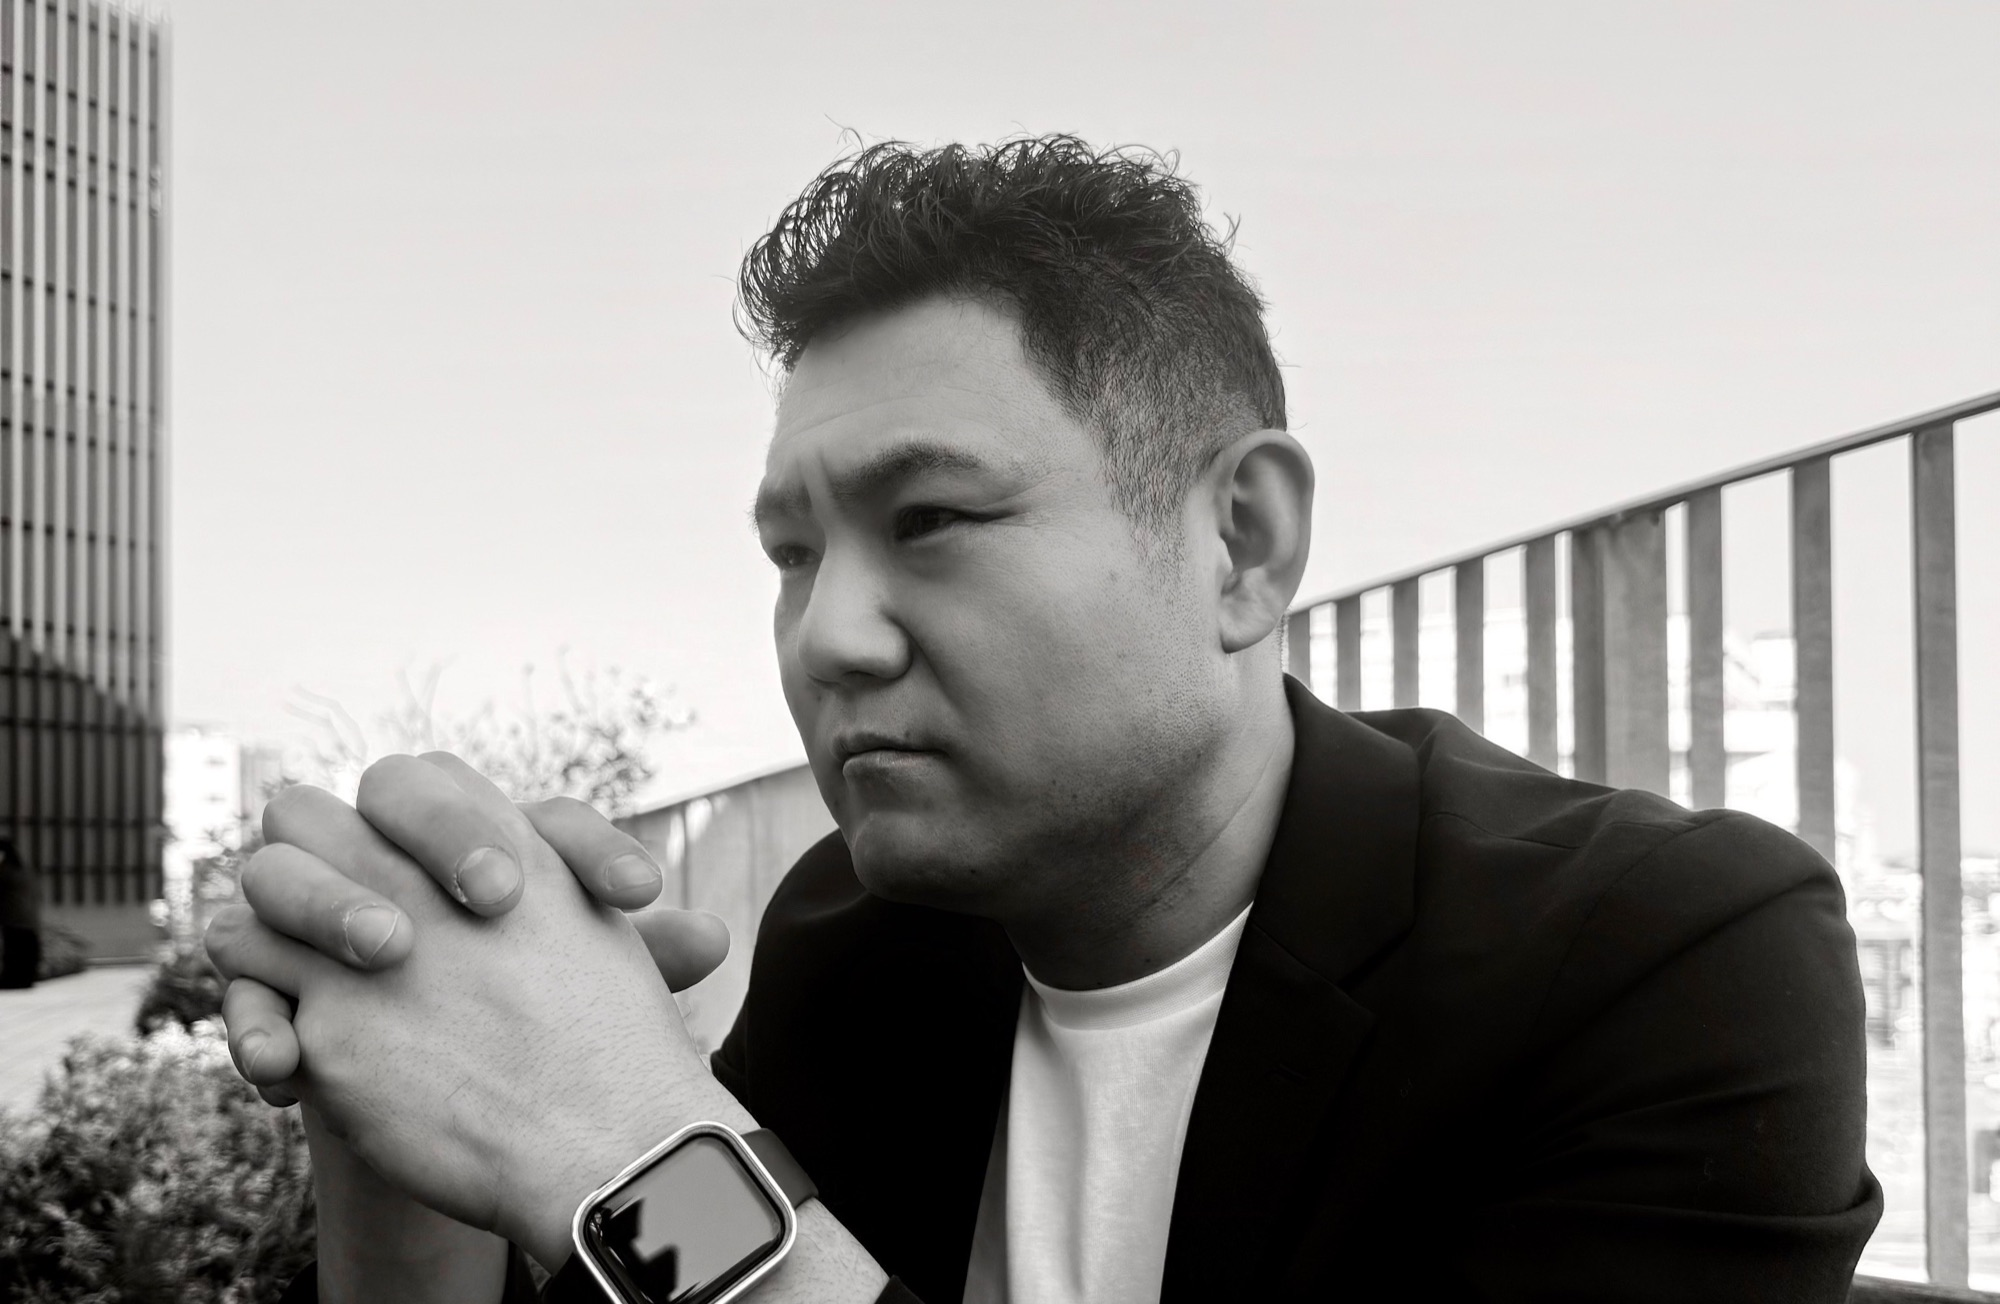
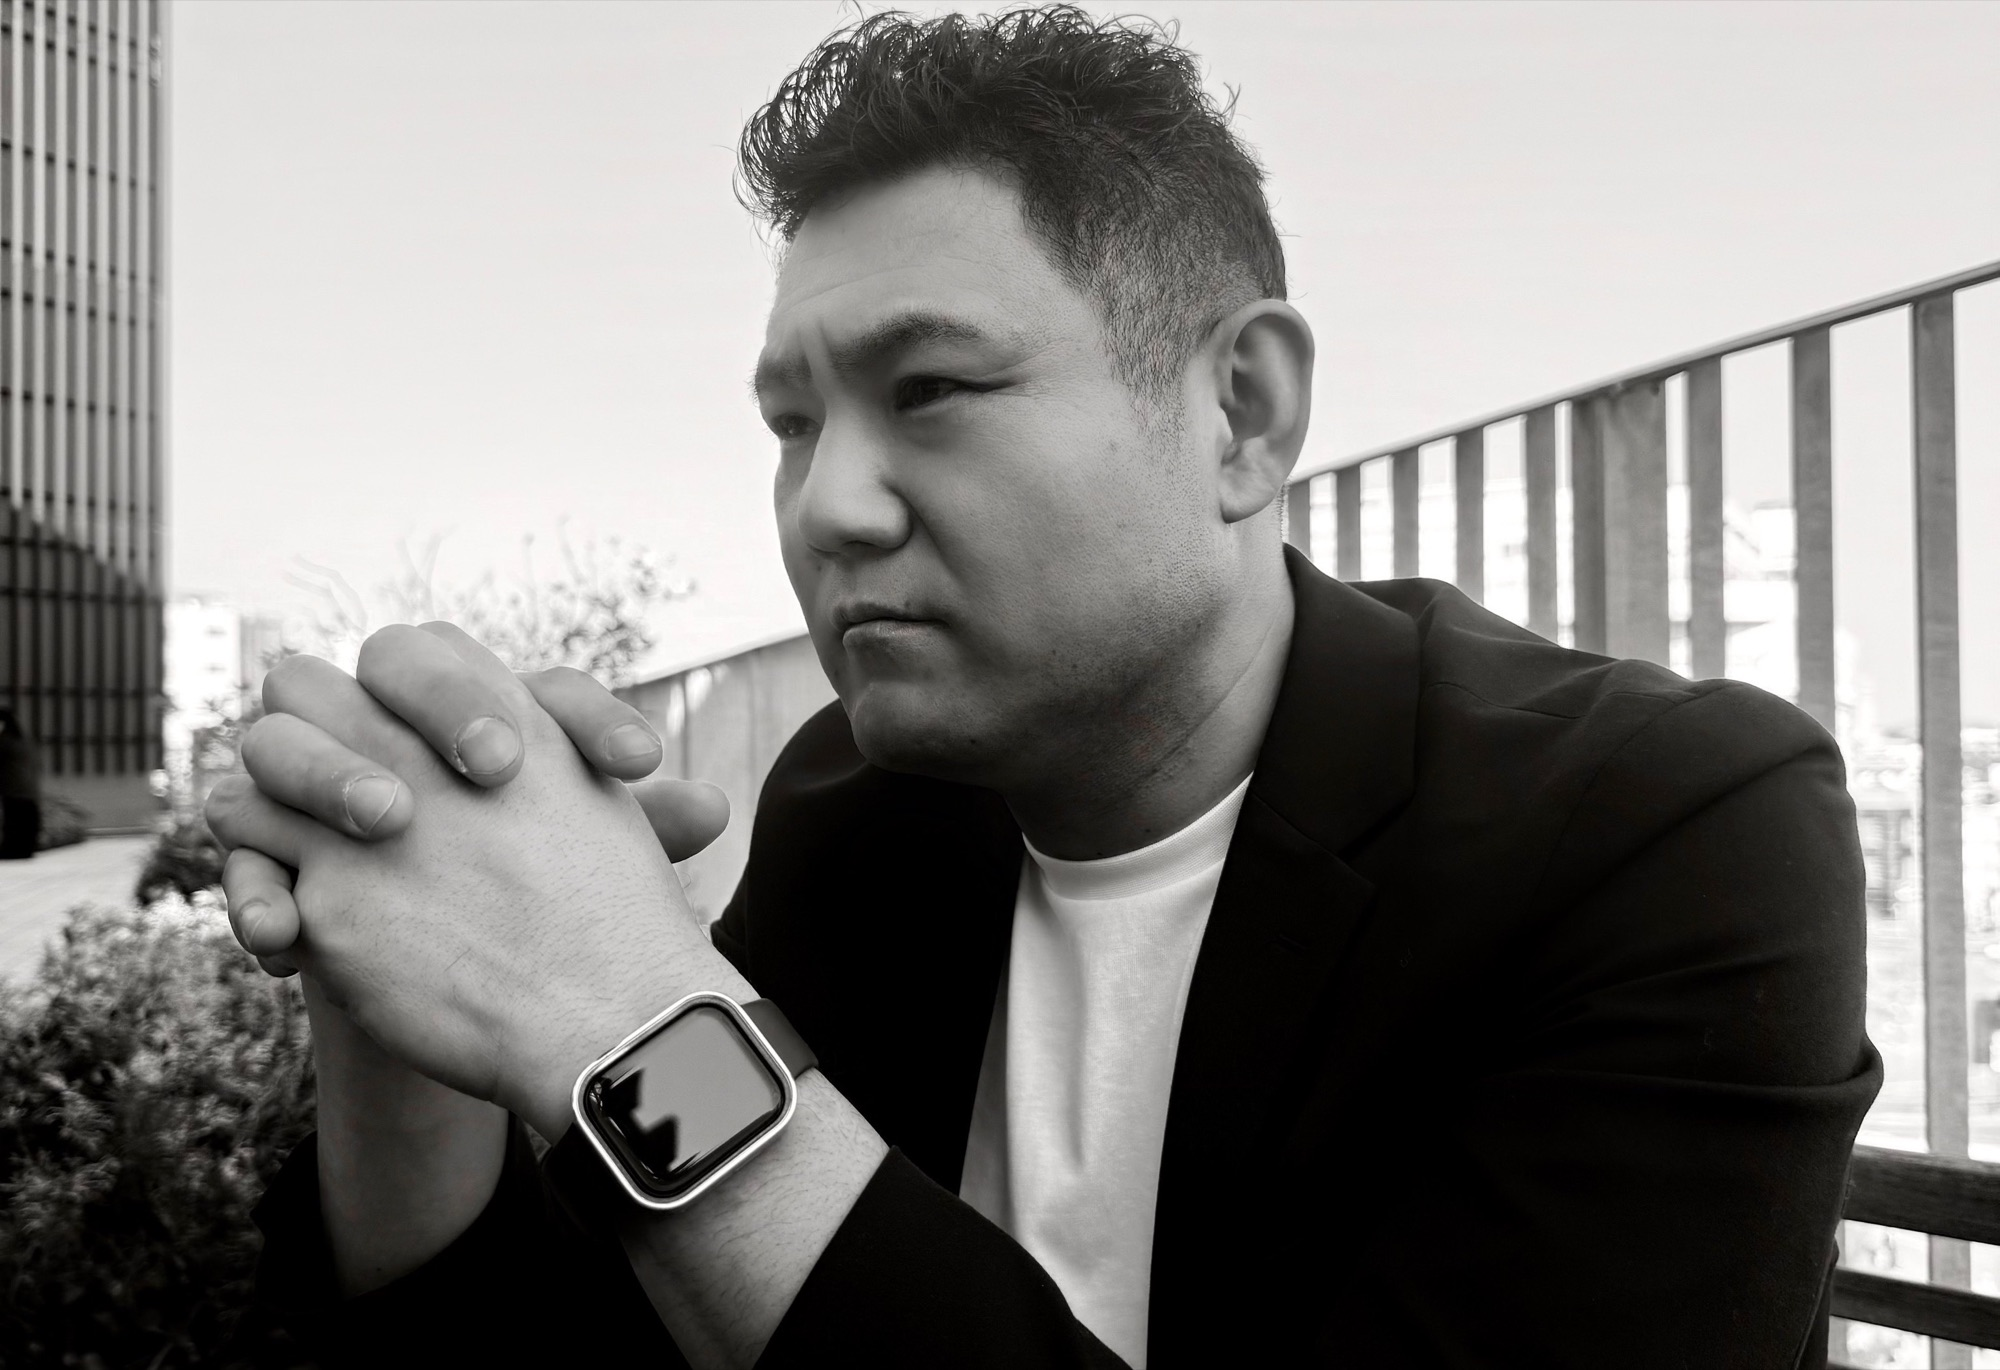
写真が関節や肩で不自然に切れないよう見せ方を直す
- 写真の帯を切り直し、組んだ手と時計まで入れる（頭の上は髪の途中で切る）
- メロンパン店の写真は、カウンターに置いた両手まで入る位置にする
- プロフィールの笑顔をアーチ形の枠に入れ、両肩の切り口を枠の外に隠す

diff --git a/RenewPage.tsx b/RenewPage.tsx
@@ -247,16 +247,18 @@ function ProfileSection() {
               山本 剛史について
             </SectionHeading>
             {/*
-              やわらかい表情の写真。元の白い背景を透明に抜いてあるので、ベージュの地にそのままなじむ。
-              切り抜きが宙に浮いて見えないよう、足もとに細い線を引き、その上に立たせる
+              やわらかい表情の写真（元の白い背景を透明に抜いたもの）。
+              両肩の端が縦にまっすぐ切れているため、上が半円のアーチ形の枠に入れ、
+              写真を枠より少し大きく置いて、肩の切り口を枠の外に逃がす
             */}
-            <div className="mt-8 max-w-[15rem] border-b border-[#1c1c1e]/25 md:mt-10 md:max-w-[17rem]">
+            <div className="relative mt-8 aspect-[4/5] w-56 overflow-hidden rounded-t-full bg-[#d6ccb6] md:mt-10 md:w-64">
               <img
                 src="/profile-smile.png"
                 alt="笑顔の山本剛史"
                 width={629}
                 height={630}
-                className="block w-full"
+                // 背景を抜いたときの境目のぼかしが下端に残るため、枠の下へ少しはみ出させて隠す
+                className="absolute -bottom-[4%] left-1/2 w-[122%] max-w-none -translate-x-1/2"
                 loading="lazy"
               />
             </div>
@@ -445,14 +447,15 @@ function ThinkingSection() {
  */
 function PhotoBand() {
   return (
-    <figure className="relative h-[clamp(17rem,52vw,36rem)] overflow-hidden bg-[#12161f]">
+    <figure className="relative h-[clamp(17rem,52vw,40rem)] overflow-hidden bg-[#12161f]">
       <img
         src="/band-mono.jpg"
         alt="屋外のテーブルで手を組み、遠くを見つめる山本剛史"
         width={2000}
-        height={1304}
-        // PCは帯が横長になり上下が切れるため、頭が収まるよう上寄りに表示する
-        className="h-full w-full object-cover object-[52%_22%]"
+        height={1370}
+        // プロの切り方：関節（手首）では切らず、組んだ手と時計まで入れる。
+        // 横長のPCで両方は入りきらないため、頭の上は髪の途中で切る（頭の上は切っても自然に見える）
+        className="h-full w-full object-cover object-[52%_44%]"
         loading="lazy"
       />
     </figure>
@@ -809,7 +812,8 @@ const CHAPTERS = [
       alt: 'メロンパン店の店頭で、ショーケースの前に立つ山本剛史',
       width: 675,
       height: 840,
-      position: 'object-[50%_42%]',
+      // 手首で切らないよう、カウンターに置いた両手まで入る位置にする
+      position: 'object-[50%_52%]',
     },
   },
   {
